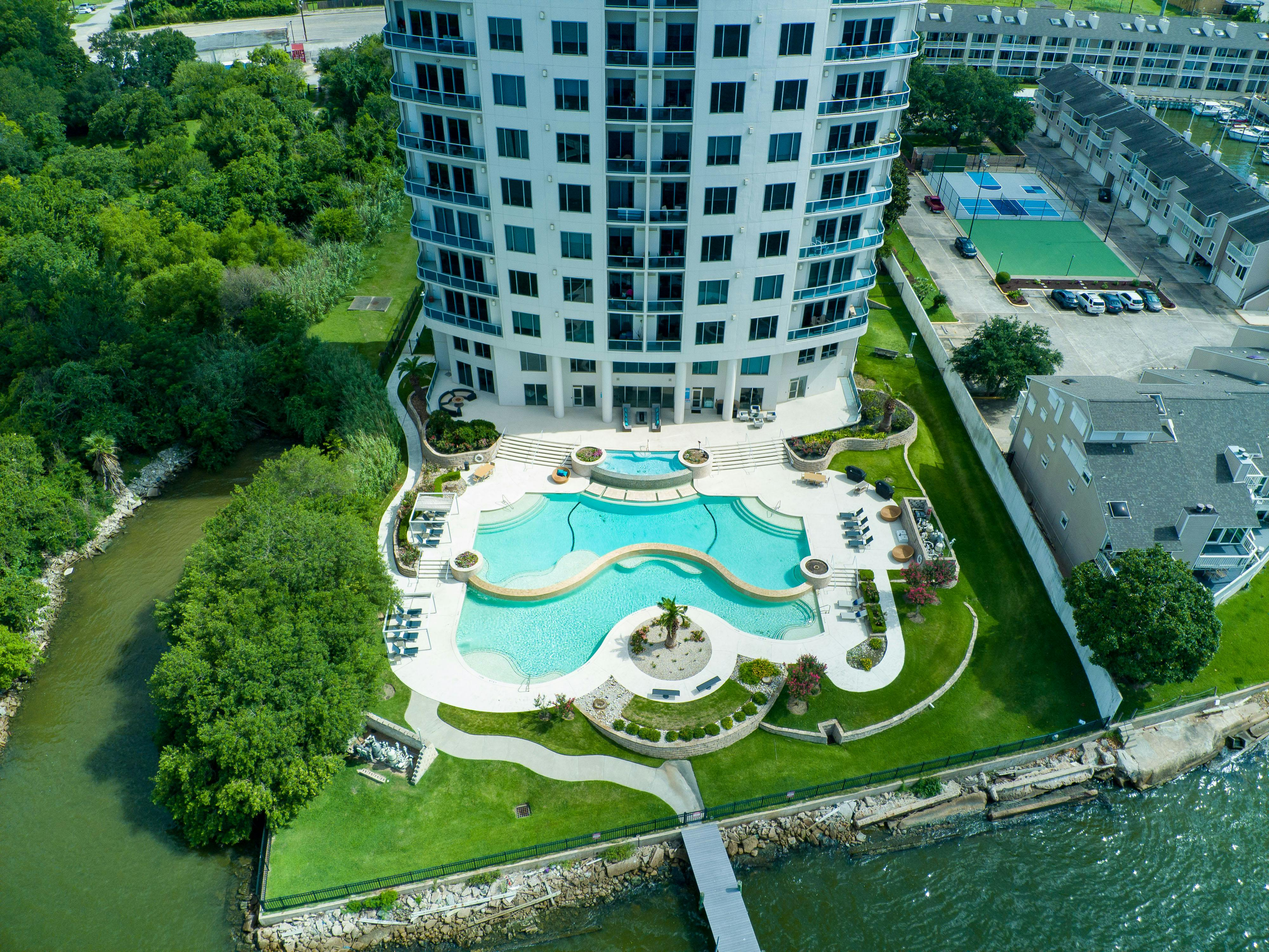
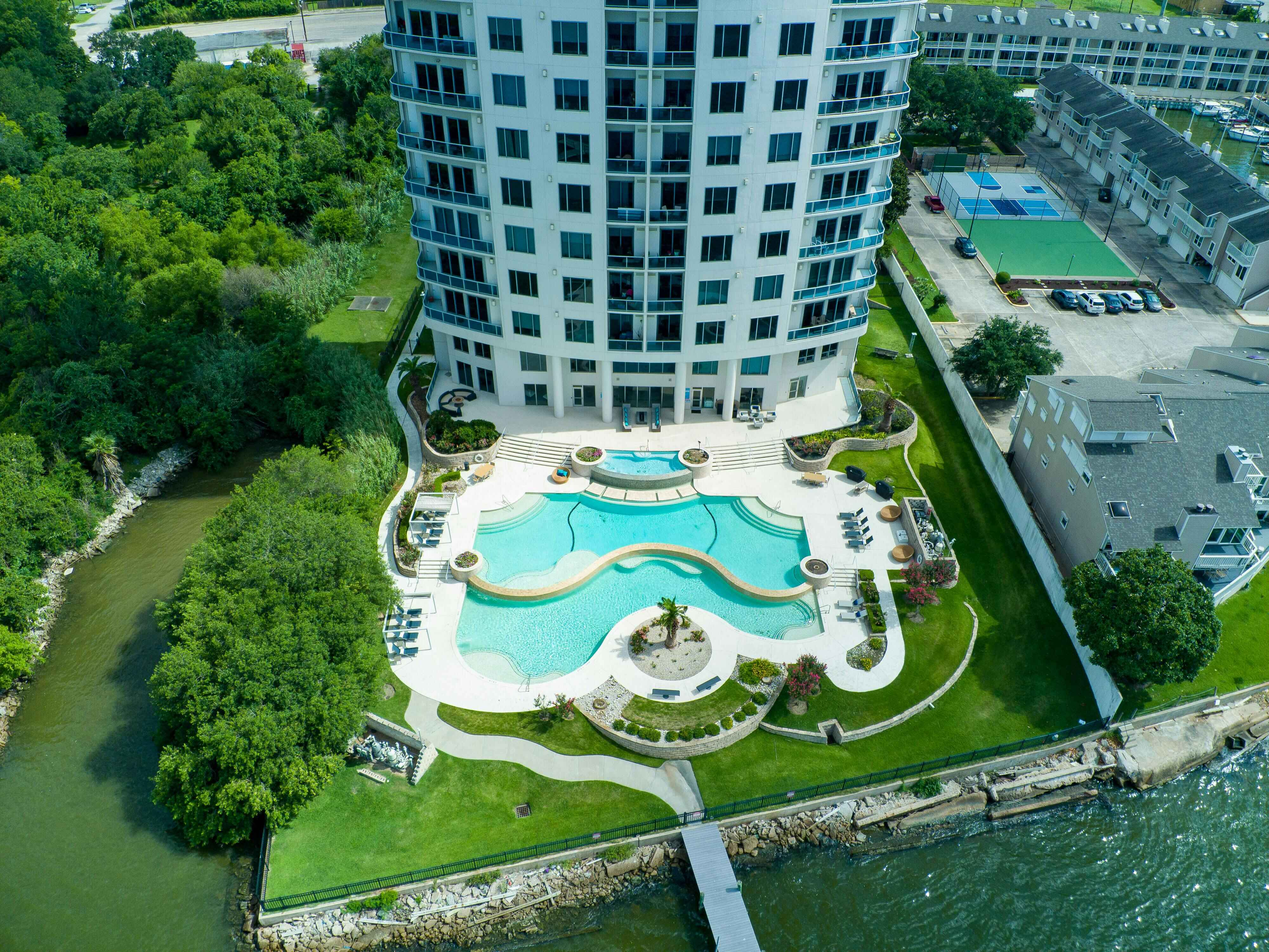
push

diff --git a/src/components/Home/HeroSection.jsx b/src/components/Home/HeroSection.jsx
@@ -95,10 +95,10 @@ export default function HeroSection({ serviceSectionRef }) {
             >
                 <div className="w-full h-full z-20 absolute bg-black opacity-30"></div>
                 <img
-                    src="k1-2.jpg"
+                    src="k1-2-min.jpg"
                     alt=""
                     className="h-full object-cover z-10 border-l-8 border-b-0 sm:border-b-8"
-                    style={{ borderColor: "rgba(255, 193, 7, 0.7)" }} // Adjust the alpha (0.5) to your liking
+                    style={{ borderColor: "rgba(255, 193, 7, 0.7)" }} 
                 />
             </motion.div>
         </div>

diff --git a/src/components/Home/ServiceSection.jsx b/src/components/Home/ServiceSection.jsx
@@ -48,7 +48,7 @@ export default function ServiceSection() {
             className="h-[93vh] flex flex-col items-center bg-gradient-to-r from-dark-700 to-dark-600 sm:to-dark-500"
         >
             <motion.div className="flex sm:flex-row flex-col gap-6 w-full max-w-[90%] lg:max-w-[90%] mt-8 sm:mt-28">
-                {["k.png", "3dmodel.jpg", "drone1.jpg"].map((img, index) => (
+                {["k-min.jpg", "3dmodel.jpg", "drone1.jpg"].map((img, index) => (
                     <motion.div
                         key={index}
                         variants={itemVariants}
